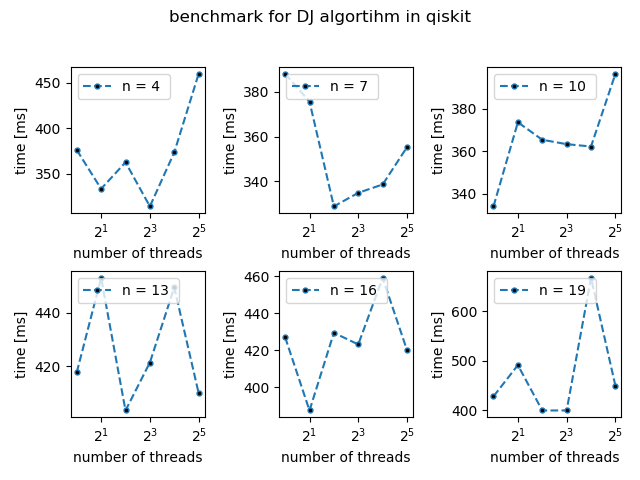
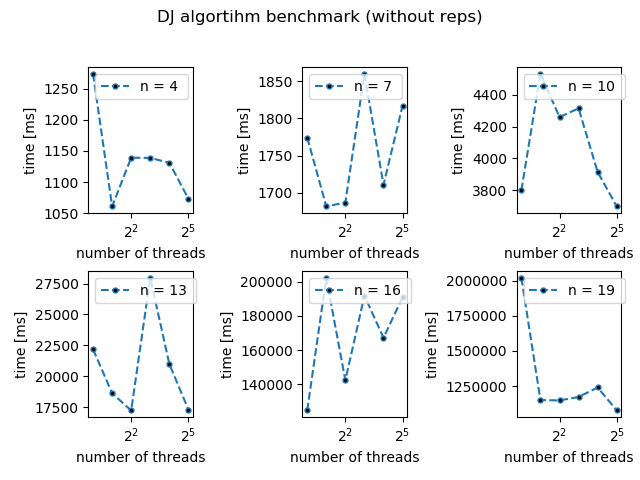
add updated benchmark plots for DJ algorithm (qiskit)

diff --git a/examples_giulia/dj-plt-auto.py b/examples_giulia/dj-plt-auto.py
@@ -5,7 +5,7 @@ threads = [1, 2, 4, 8, 16, 32]  # number of threads
 numQubits = [4, 7, 10, 13, 16, 19]  # input number n
 
 # readout data from textfile
-filenames = ["../docs/dj-bench.txt"]
+filenames = ["../docs/dj-benchmark.txt"]
 master_data = []
 data = [master_data]
 
@@ -17,7 +17,7 @@ for i, filename in enumerate(filenames):
     temp = data[i].split('\n')
 
     avg_times = [row.split(' ')[5] for row in temp if row.startswith("elapsed")]
-    avg_times = [k.split('^M')[0] for k in avg_times]  # get rid of the '^M' in the list of avg_times
+    #avg_times = [k.split('^M')[0] for k in avg_times]  # get rid of the '^M' in the list of avg_times
 
     avg_times = [float(num) for num in avg_times]
     lenThr = len(threads)
@@ -36,7 +36,7 @@ for i in range(len(y)):
     plt.xlabel('number of threads')
     plt.ylabel('time [ms]')
     plt.legend(loc='upper left')
-plt.suptitle('benchmark for DJ algortihm in qiskit')
+plt.suptitle('DJ algortihm benchmark (without reps)')
 plt.tight_layout()
 plt.subplots_adjust(top=0.86)
 plt.savefig('dj-benchmark')
